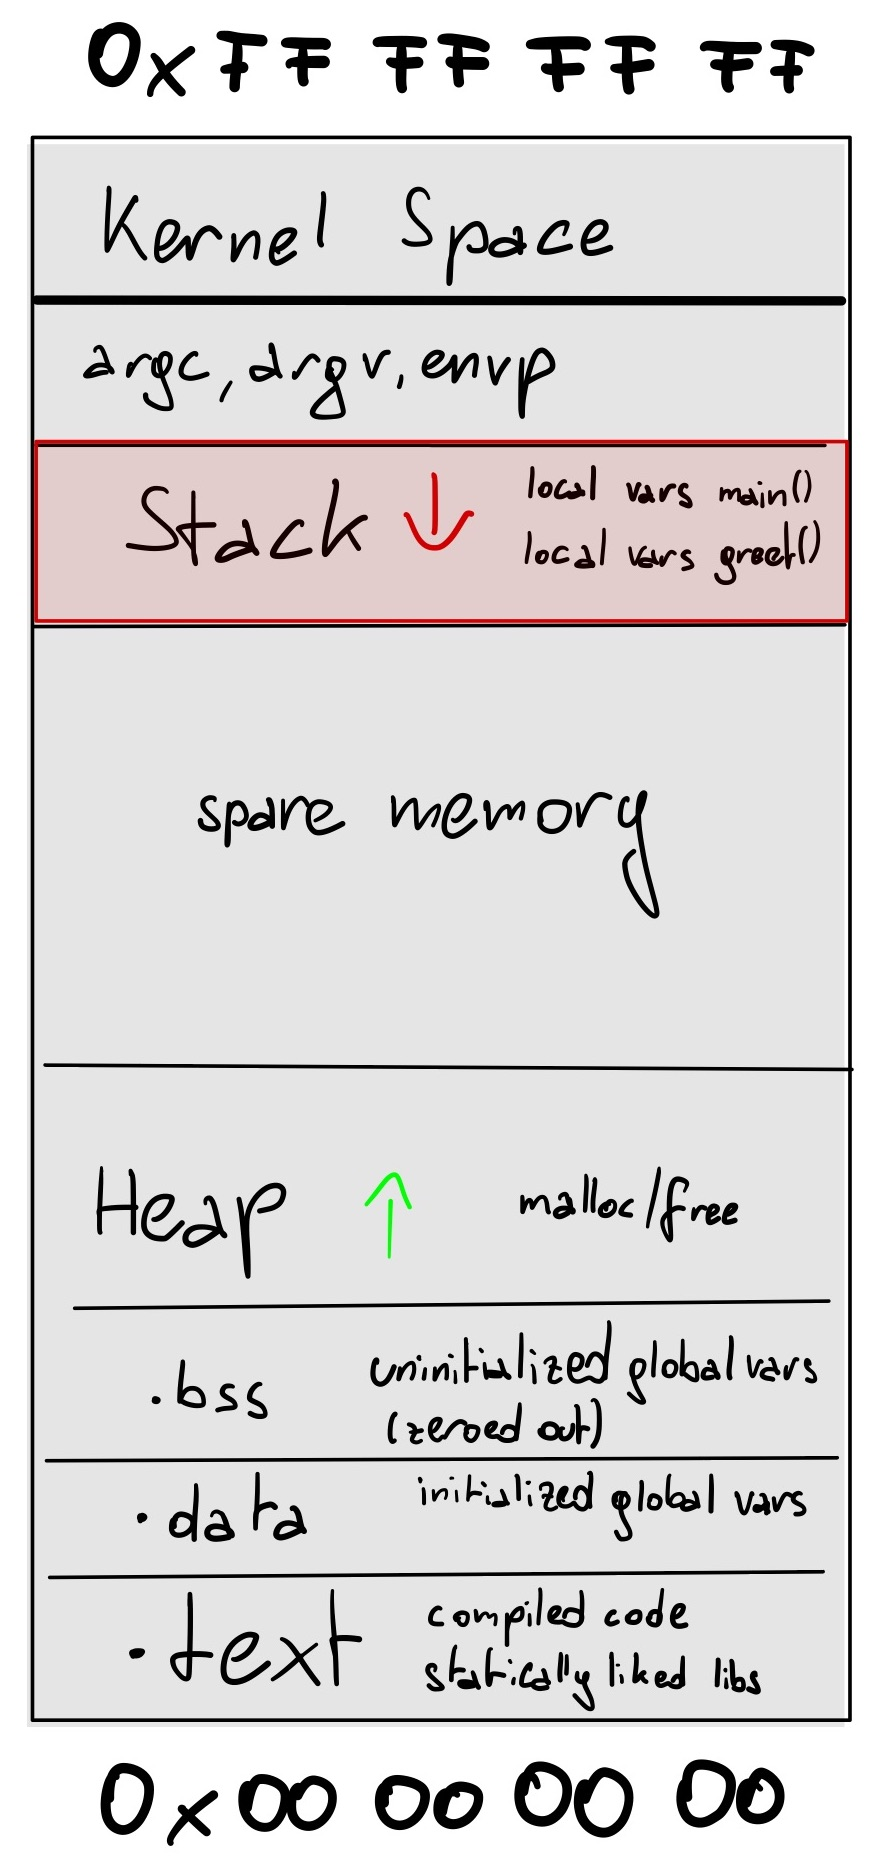
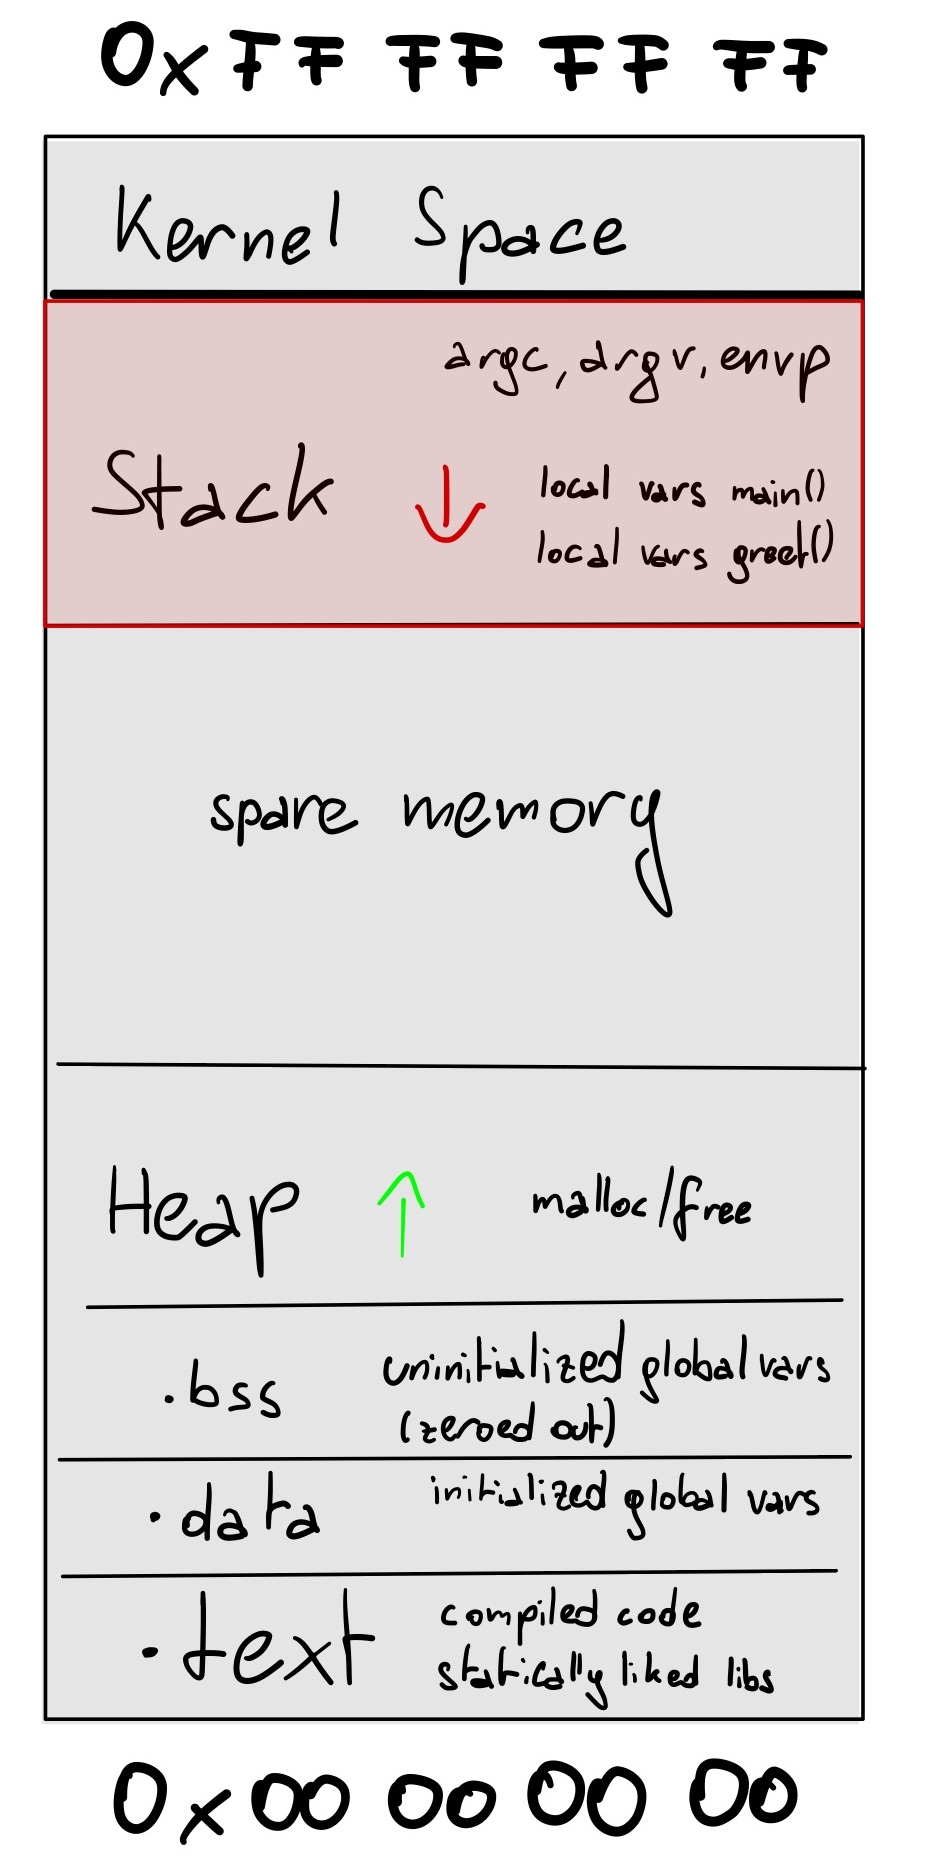
fix error (stack contains argc, etc.)

diff --git a/readme.md b/readme.md
@@ -128,7 +128,7 @@ This section assumes an x86_32 Linux with a 1GiB/3GiB Kernel/userspace split.
   * the heap grows up
   * **the stack grows down!**
     * the more data is on the stack, the lower the last address
-  * **the size of `argc`, `argv` and the environment influence where the stack starts!**
+  * **the size of `argc`, `argv`, and the environment influence the offset for addresses on the stack!**
     * potential source of confusion when debugging or developing exploits
     <br>(environment change results in address offset change)
   * `0xFFFFFFFF` to `0xC0000000` is the kernelspace
